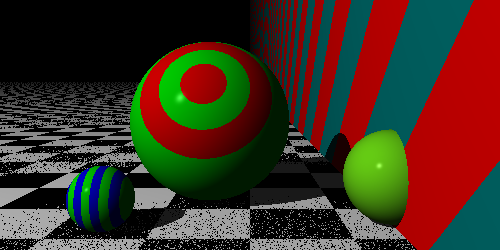
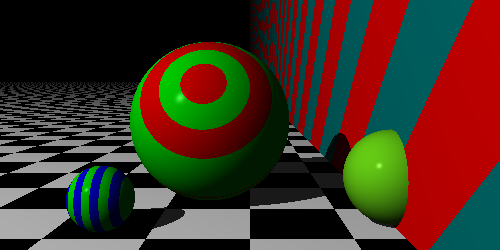
Fixed noise issues by passing over point to lighting methods

diff --git a/RayTracer.Common/Core/World.cs b/RayTracer.Common/Core/World.cs
@@ -28,7 +28,7 @@ namespace RayTracer.Common.Core
                 var isInShadow = IsInShadow(preComputation.OverPoint, pointLight);
                 
                 color += preComputation.Object.Material.CalculateLighting(pointLight,
-                    preComputation.Point,
+                    preComputation.OverPoint,
                     preComputation.EyeVector,
                     preComputation.NormalVector,
                     isInShadow,
